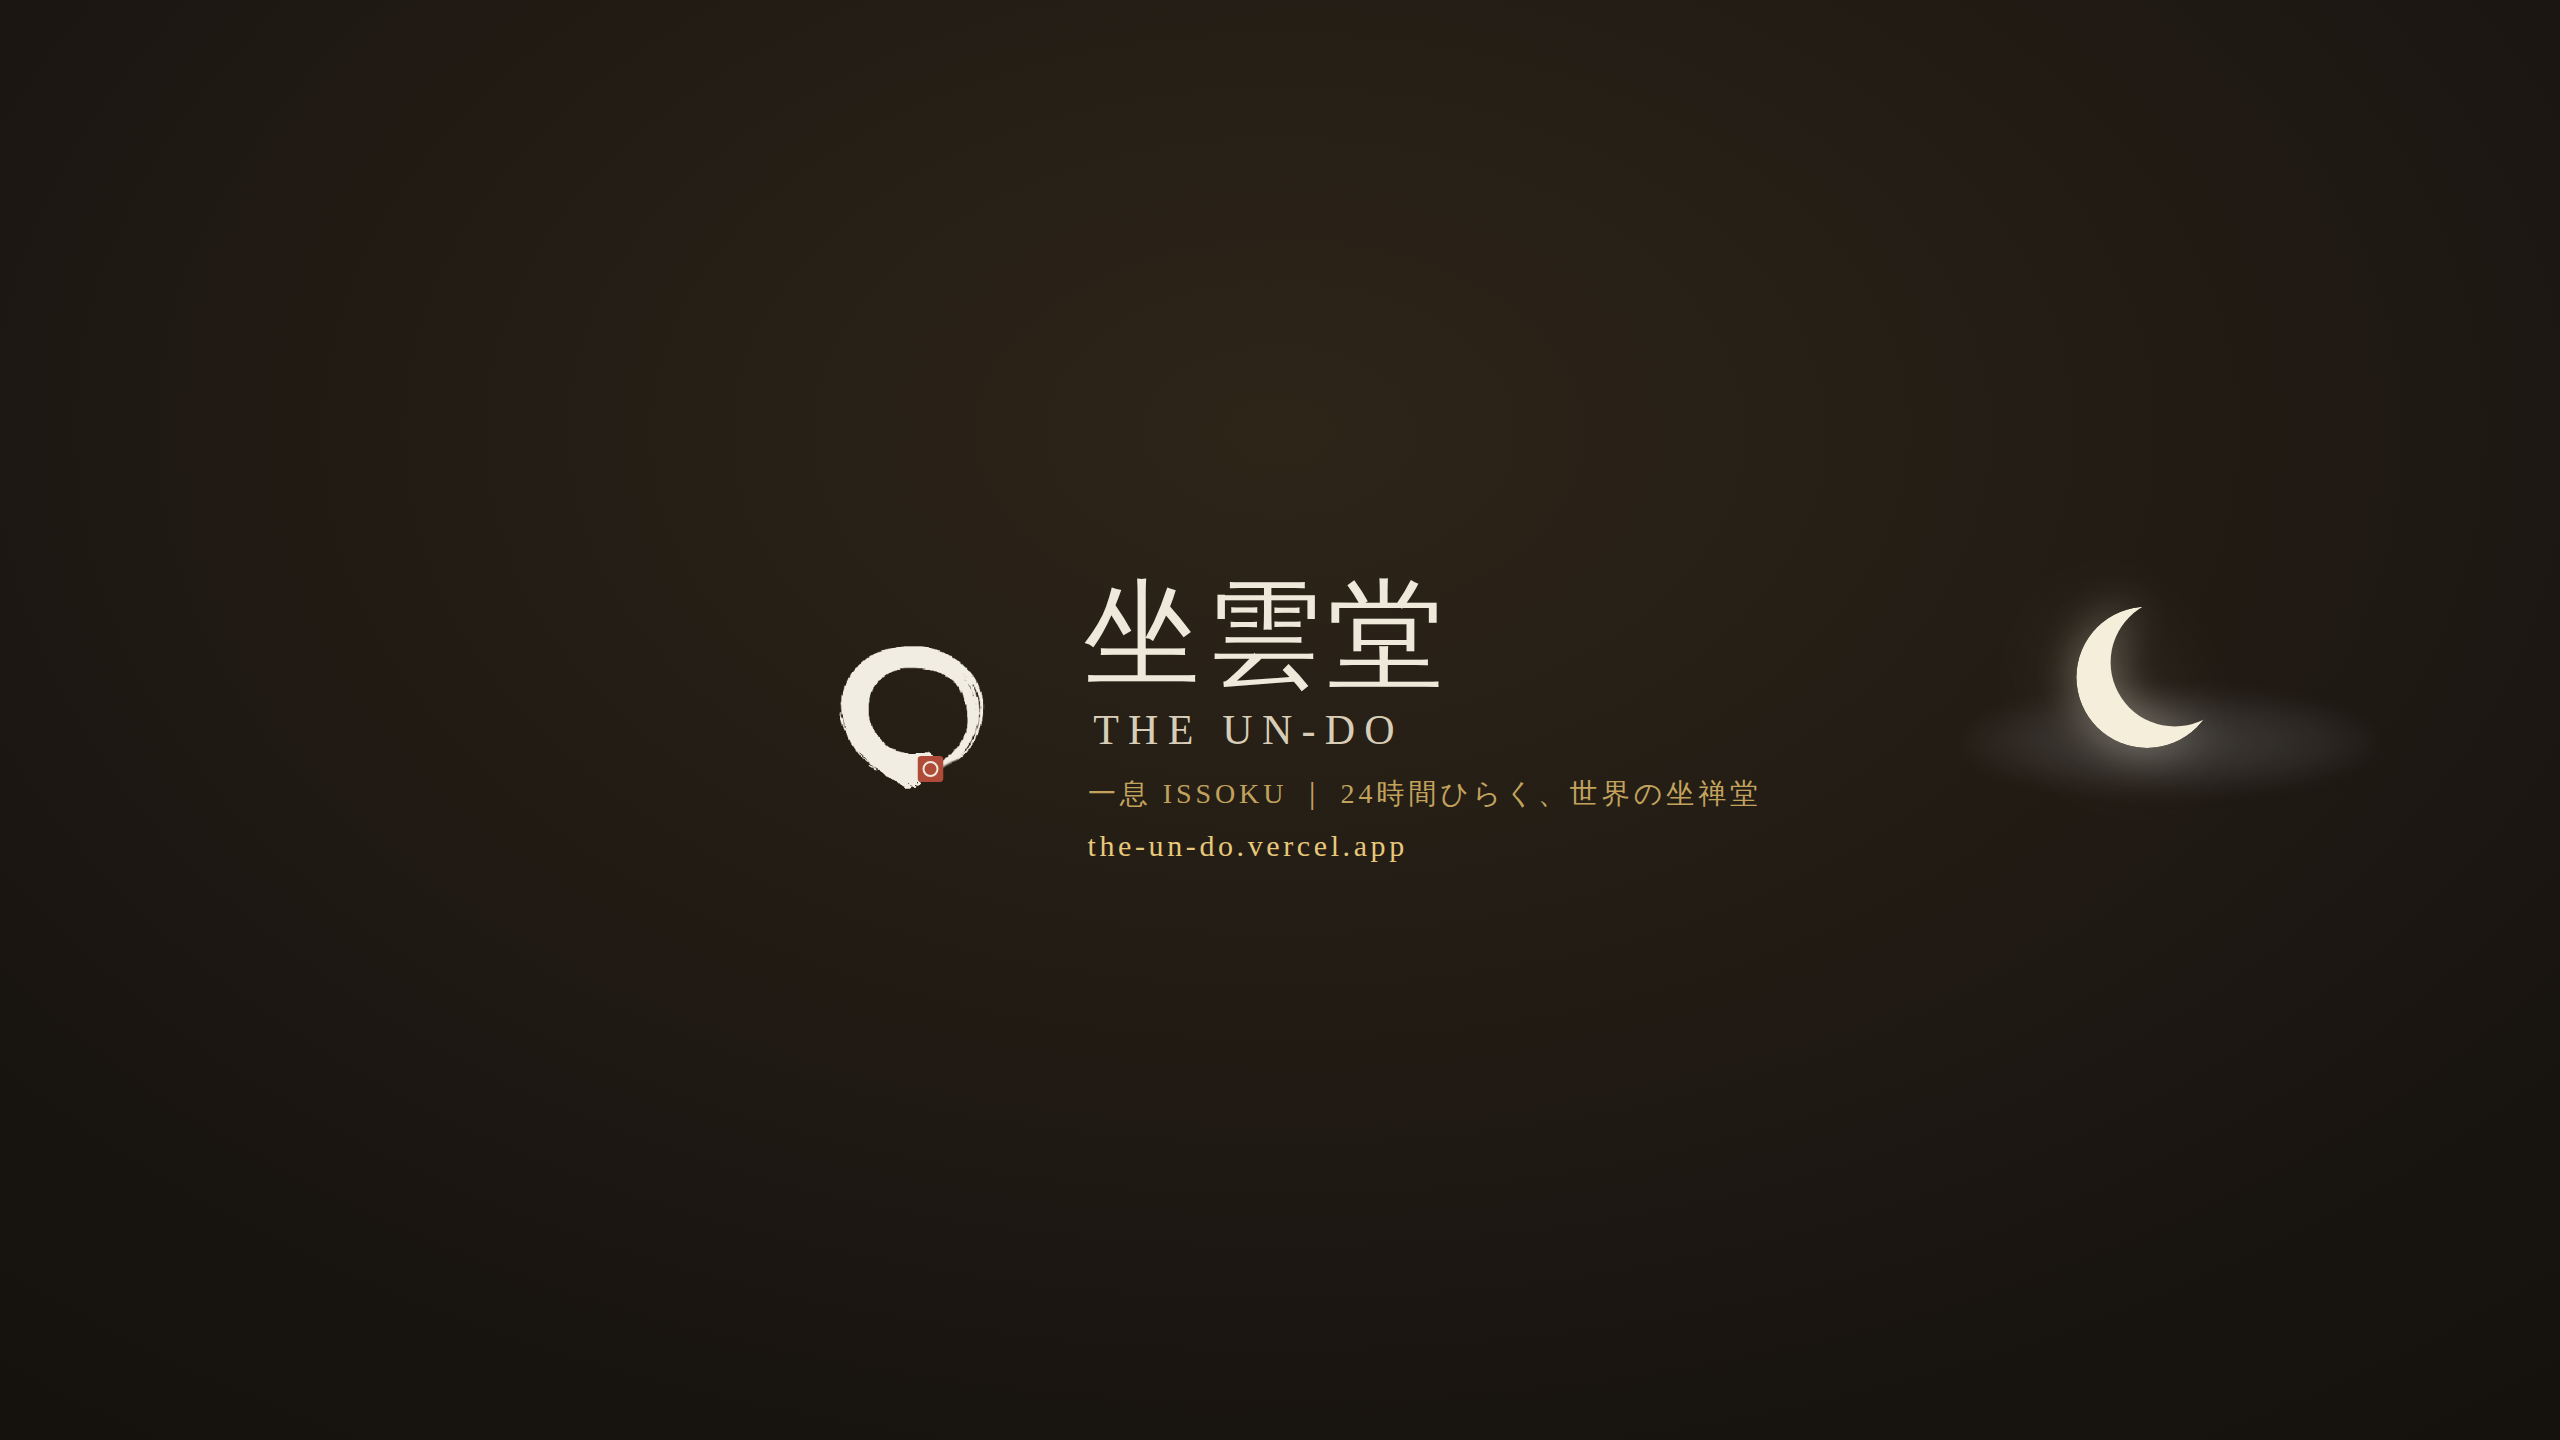
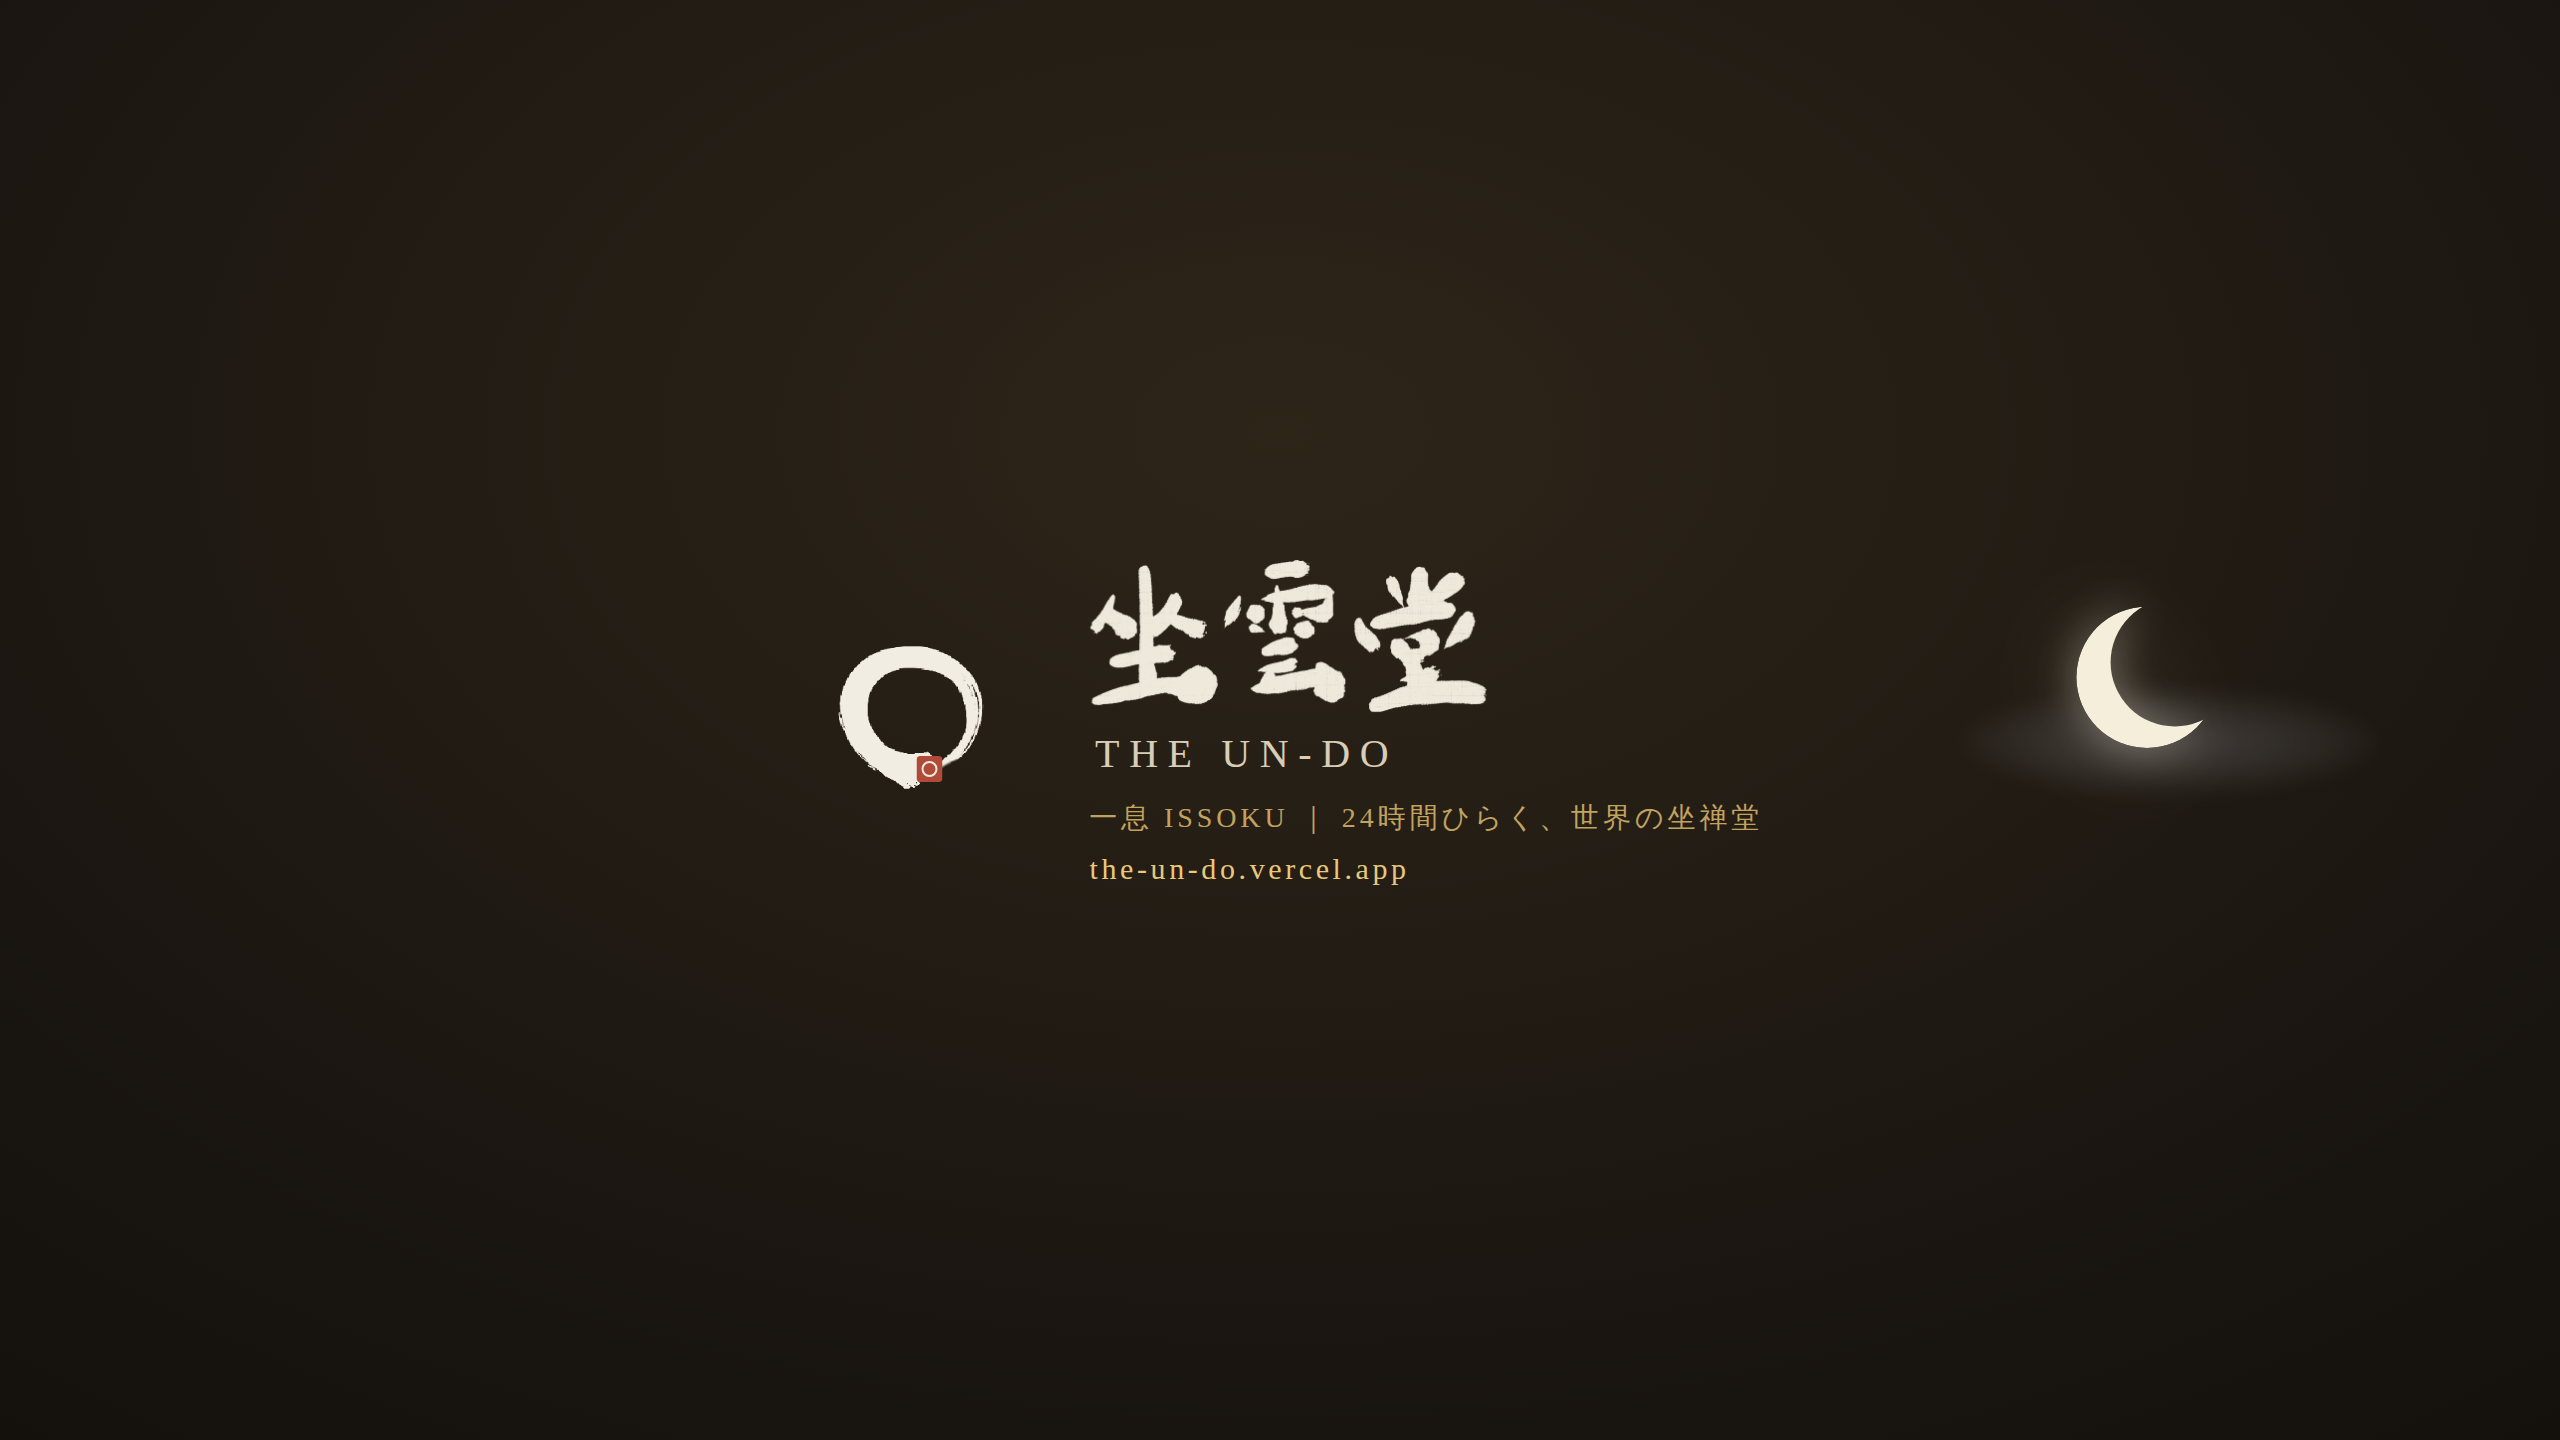
バナーの「坐雲堂」も本物の毛筆に差し替え
頂いた筆文字「坐雲堂」（白文字×紺地）の地を抜き淡色化（seiundou-light.png）。
バナーの活字タイトルをこの本物の筆文字へ。円相・一息・坐雲堂すべて手書きで統一。
安全域1235×338の収まりを再確認。原本(seiundou-source.webp)も同梱。

Claude-Session: https://claude.ai/code/session_01Bwk76KsqtWFGpB9v5YCFbq

Changed region(s): [[0.4062, 0.375, 0.6875, 0.625]]

diff --git a/assets/youtube/banner.html b/assets/youtube/banner.html
@@ -9,14 +9,15 @@
     background:radial-gradient(ellipse at center, rgba(206,212,222,.2), rgba(206,212,222,.07) 55%, transparent 75%)}
   .cl1{width:420px;height:104px;left:1960px;top:690px}
   .safe{position:absolute; left:50%; top:50%; transform:translate(-50%,-50%);
-    width:1235px; height:338px; display:flex; align-items:center; justify-content:center; gap:58px}
+    width:1235px; height:338px; display:flex; align-items:center; justify-content:center; gap:60px}
   .mark{position:relative;width:228px;height:228px;flex:0 0 auto}
   .mark img.enso{position:absolute;left:34px;top:32px;width:160px;height:159px}
   .mark .seal{position:absolute;left:120px;top:150px}
-  .h{color:#efe9dc; font-size:116px; letter-spacing:.05em; line-height:1; font-weight:500}
-  .h .lat{display:block; color:#d8cdb6; font-size:42px; letter-spacing:.22em; margin-top:16px; padding-left:.22em}
-  .s{color:#c2a35e; font-size:28px; letter-spacing:.14em; margin-top:24px; padding-left:.14em}
-  .u{color:#e8c87a; font-size:30px; letter-spacing:.12em; margin-top:16px; padding-left:.12em}
+  .txt{display:flex;flex-direction:column;justify-content:center}
+  img.title{width:408px;height:auto;display:block}
+  .lat2{color:#d8cdb6; font-size:40px; letter-spacing:.24em; margin-top:12px; padding-left:.26em}
+  .s{color:#c2a35e; font-size:28px; letter-spacing:.14em; margin-top:22px; padding-left:.16em}
+  .u{color:#e8c87a; font-size:30px; letter-spacing:.12em; margin-top:15px; padding-left:.16em}
 </style></head><body>
 <div class="b">
   <div class="cloud cl1"></div>
@@ -34,7 +35,8 @@
       </svg>
     </div>
     <div class="txt">
-      <div class="h">坐雲堂<span class="lat">THE&nbsp;UN-DO</span></div>
+      <img class="title" src="./seiundou-light.png">
+      <div class="lat2">THE&nbsp;UN-DO</div>
       <div class="s">一息 ISSOKU ｜ 24時間ひらく、世界の坐禅堂</div>
       <div class="u">the-un-do.vercel.app</div>
     </div>

diff --git a/youtube.md b/youtube.md
@@ -31,7 +31,7 @@
   - RSS: `https://www.youtube.com/feeds/videos.xml?channel_id=UCqzoMItMT74uC--y67S1-AQ`
   - ※アプリの導線（`YT_LIVE_URL`）は読みやすいハンドル `@The-un_do` のままでよい。IDは裏の永続キーとして記録。
 - **アイコン（プロフィール画像）**: `assets/youtube/avatar.png`（**本物の毛筆円相**（落款なし・淡色）＋朱印＋**本物の毛筆「一息」**・1600px四方）。一息は `issoku-source.jpg` 原本／`issoku-light.png` 淡色版
-- **バナー（ヘッダー）**: `assets/youtube/banner.png`（毛筆円相＋坐雲堂／THE UN-DO＋三日月・2560×1440・**全デバイス安全域1235×338に文字収め**）
+- **バナー（ヘッダー）**: `assets/youtube/banner.png`（毛筆円相＋**本物の毛筆「坐雲堂」**／THE UN-DO＋三日月・2560×1440・**全デバイス安全域1235×338に文字収め**）。坐雲堂は `seiundou-source.webp` 原本／`seiundou-light.png` 淡色版
 - **動画の透かし**: `assets/youtube/watermark.png`（円相のみ・背景透過＋淡い影・300px四方）
 - **リンク欄**: 「坐るアプリ → https://the-un-do.vercel.app/ 」
 - ※円相は本物の毛筆作品（`assets/youtube/enso-source.png` 原本／`enso-light.png` 紙地を抜いた淡色版）。各素材は `assets/youtube/*.html` から再生成可（`enso-light.png` を参照）。